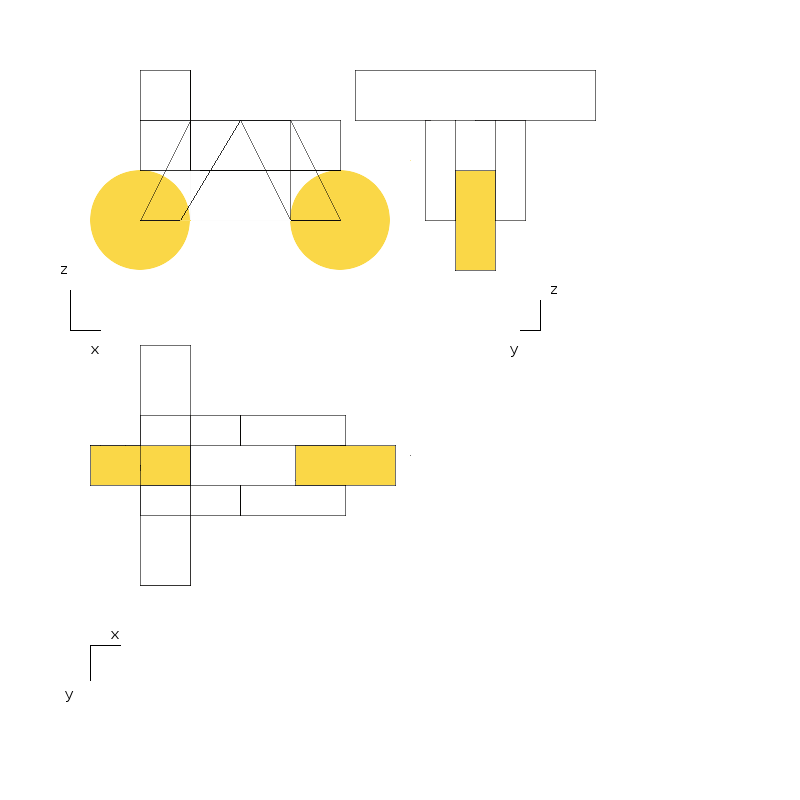
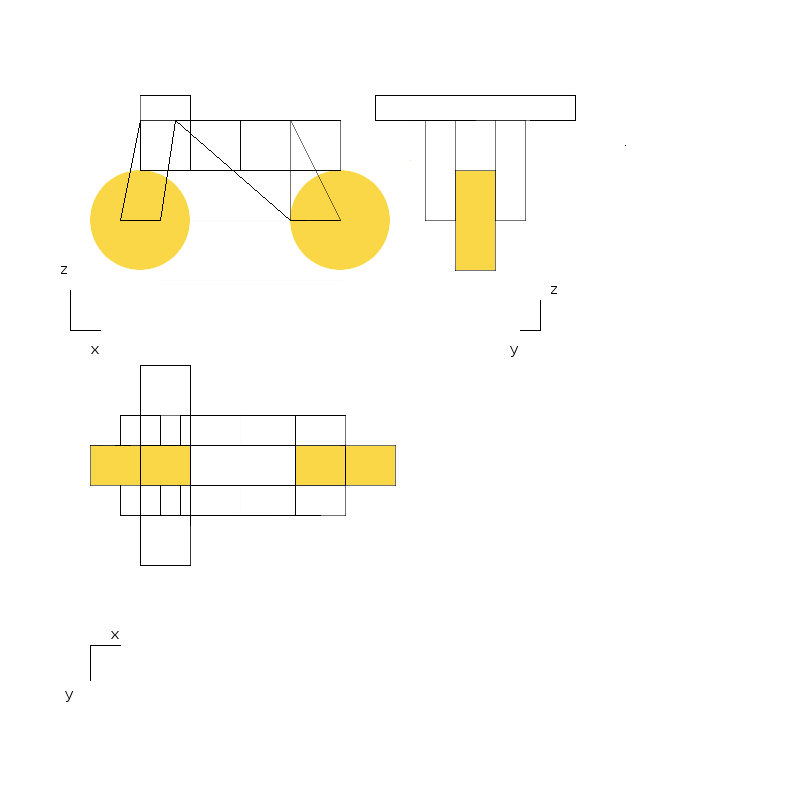
f

Changed region(s): [[0.2188, 0.625, 0.25, 0.6562], [0.2188, 0.5312, 0.25, 0.5625], [0.1875, 0.1875, 0.2188, 0.2188]]

diff --git a/Driving/src/com/editors/weapons/data/Weapon.java b/Driving/src/com/editors/weapons/data/Weapon.java
@@ -12,15 +12,15 @@ import com.main.Renderer3D;
 public class Weapon extends CustomData{
 
 	double barrel_lenght=0; 
-	double barrel_radius=0;
-		
+	double barrel_radius=0;		
 	int barrel_meridians=0;
-	int barrel_parallels=0;
 	
-	
+		
 	public static int WEAPON_TYPE_SHOTGUN=0;
 	public int weapon_type=WEAPON_TYPE_SHOTGUN;
 	
+	
+	int barrel_parallels=0;
 	double foliage_length=0;
 	double foliage_radius=0;
 	int foliage_lobes=0;
@@ -100,13 +100,13 @@ public class Weapon extends CustomData{
 		BPoint[] uTrunkpoints=new BPoint[barrel_meridians];
 		BPoint[] bTrunkpoints=new BPoint[barrel_meridians];
 		
-		
 		for (int i = 0; i < barrel_meridians; i++) {
+		
 			
 			double x=barrel_radius*Math.cos(2*Math.PI/barrel_meridians*i);
-			double y=barrel_radius*Math.sin(2*Math.PI/barrel_meridians*i);
+			double z=barrel_radius*Math.sin(2*Math.PI/barrel_meridians*i);
 			
-			uTrunkpoints[i]=addBPoint(x,y,barrel_lenght);
+			uTrunkpoints[i]=addBPoint(x,barrel_lenght,z);
 			
 			
 		}
@@ -114,7 +114,9 @@ public class Weapon extends CustomData{
 
 		LineData topLD=new LineData();
 		
-		for (int i = 0; i < barrel_meridians; i++) {
+		
+			
+			for (int i = barrel_meridians-1; i >=0; i--) {
 			
 			topLD.addIndex(uTrunkpoints[i].getIndex());
 			
@@ -125,16 +127,16 @@ public class Weapon extends CustomData{
 		for (int i = 0; i < barrel_meridians; i++) {
 			
 			double x=barrel_radius*Math.cos(2*Math.PI/barrel_meridians*i);
-			double y=barrel_radius*Math.sin(2*Math.PI/barrel_meridians*i);
+			double z=barrel_radius*Math.sin(2*Math.PI/barrel_meridians*i);
 			
-			bTrunkpoints[i]=addBPoint(x,y,0);
+			bTrunkpoints[i]=addBPoint(x,0,z);
 			
 		}
 
 
 		LineData bottomLD=new LineData();
 		
-		for (int i = barrel_meridians-1; i >=0; i--) {
+		for (int i = 0; i < barrel_meridians; i++) {
 			
 			bottomLD.addIndex(bTrunkpoints[i].getIndex());
 			
@@ -148,10 +150,11 @@ public class Weapon extends CustomData{
 			
 			LineData sideLD=new LineData();
 			
-			sideLD.addIndex(bTrunkpoints[i].getIndex());
+			
 			sideLD.addIndex(bTrunkpoints[(i+1)%barrel_meridians].getIndex());
+			sideLD.addIndex(bTrunkpoints[i].getIndex());
+			sideLD.addIndex(uTrunkpoints[i].getIndex());
 			sideLD.addIndex(uTrunkpoints[(i+1)%barrel_meridians].getIndex());
-			sideLD.addIndex(uTrunkpoints[i].getIndex());	
 			sideLD.setData(""+getFace(sideLD,points));
 			polyData.add(sideLD);
 			

diff --git a/Driving/src/com/editors/cars/data/Car.java b/Driving/src/com/editors/cars/data/Car.java
@@ -1186,7 +1186,7 @@ public class Car extends CustomData {
 		BPoint[][][] leftFrame=new BPoint[2][2][2];
 		
 		
-		double frame_side=15;
+		double frame_side=(x_side-track)*0.5;
 		double xc=-frame_side*0.5;
 		
 		Segments lf=new Segments(xc,frame_side,back_length,y_side,wheel_radius,2*z_side);
@@ -1250,10 +1250,10 @@ public class Car extends CustomData {
 		
 		BPoint[][][] leftFork=new BPoint[2][2][2];	
 		
-		leftFork[0][0][0]=addBPoint(-0.5,0.82,0,lf);
-		leftFork[1][0][0]=addBPoint(0.5,0.82,0,lf);		
-		leftFork[0][1][0]=addBPoint(-0.5,1.0,0,lf);
-		leftFork[1][1][0]=addBPoint(0.5,1.0,0,lf);
+		leftFork[0][0][0]=addBPoint(-0.5,0.91,0,lf);
+		leftFork[1][0][0]=addBPoint(0.5,0.91,0,lf);		
+		leftFork[0][1][0]=addBPoint(-0.5,1.09,0,lf);
+		leftFork[1][1][0]=addBPoint(0.5,1.09,0,lf);
 				
 		leftFork[0][0][1]=addBPoint(-0.5,0.82,1.0,lf);	
 		leftFork[1][0][1]=addBPoint(0.5,0.82,1.0,lf);
@@ -1276,10 +1276,10 @@ public class Car extends CustomData {
 		
 		BPoint[][][] rightFork=new BPoint[2][2][2];	
 		
-		rightFork[0][0][0]=addBPoint(-0.5,0.82,0,rf);
-		rightFork[1][0][0]=addBPoint(0.5,0.82,0,rf);	
-		rightFork[0][1][0]=addBPoint(-0.5,1.0,0,rf);
-		rightFork[1][1][0]=addBPoint(0.5,1.0,0,rf);
+		rightFork[0][0][0]=addBPoint(-0.5,0.91,0,rf);
+		rightFork[1][0][0]=addBPoint(0.5,0.91,0,rf);	
+		rightFork[0][1][0]=addBPoint(-0.5,1.09,0,rf);
+		rightFork[1][1][0]=addBPoint(0.5,1.09,0,rf);
 				
 		rightFork[0][0][1]=addBPoint(-0.5,0.82,1.0,rf);	
 		rightFork[1][0][1]=addBPoint(0.5,0.82,1.0,rf);

diff --git a/Driving/src/com/editors/cars/CarsEditor.java b/Driving/src/com/editors/cars/CarsEditor.java
@@ -373,7 +373,7 @@ public class CarsEditor extends CustomEditor implements MenuListener, ActionList
 	public void initRightBykeData() { 
 		
 		
-		x_side.setText(100);
+		x_side.setText(50);
 		y_side.setText(150);
 		z_side.setText(50);
 		
